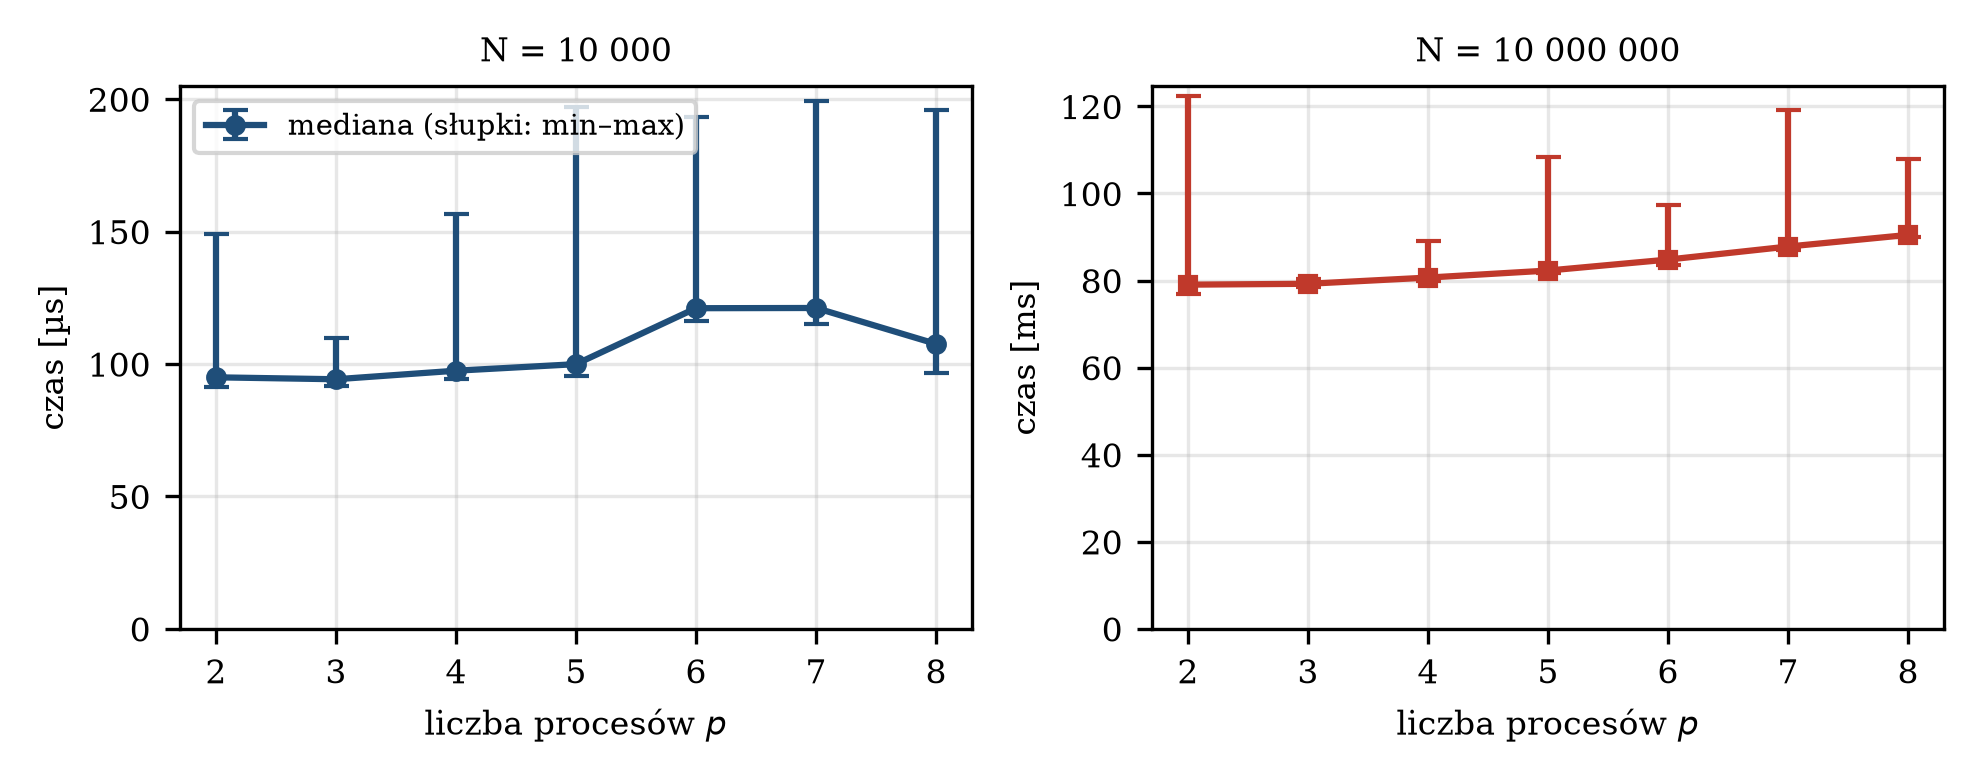
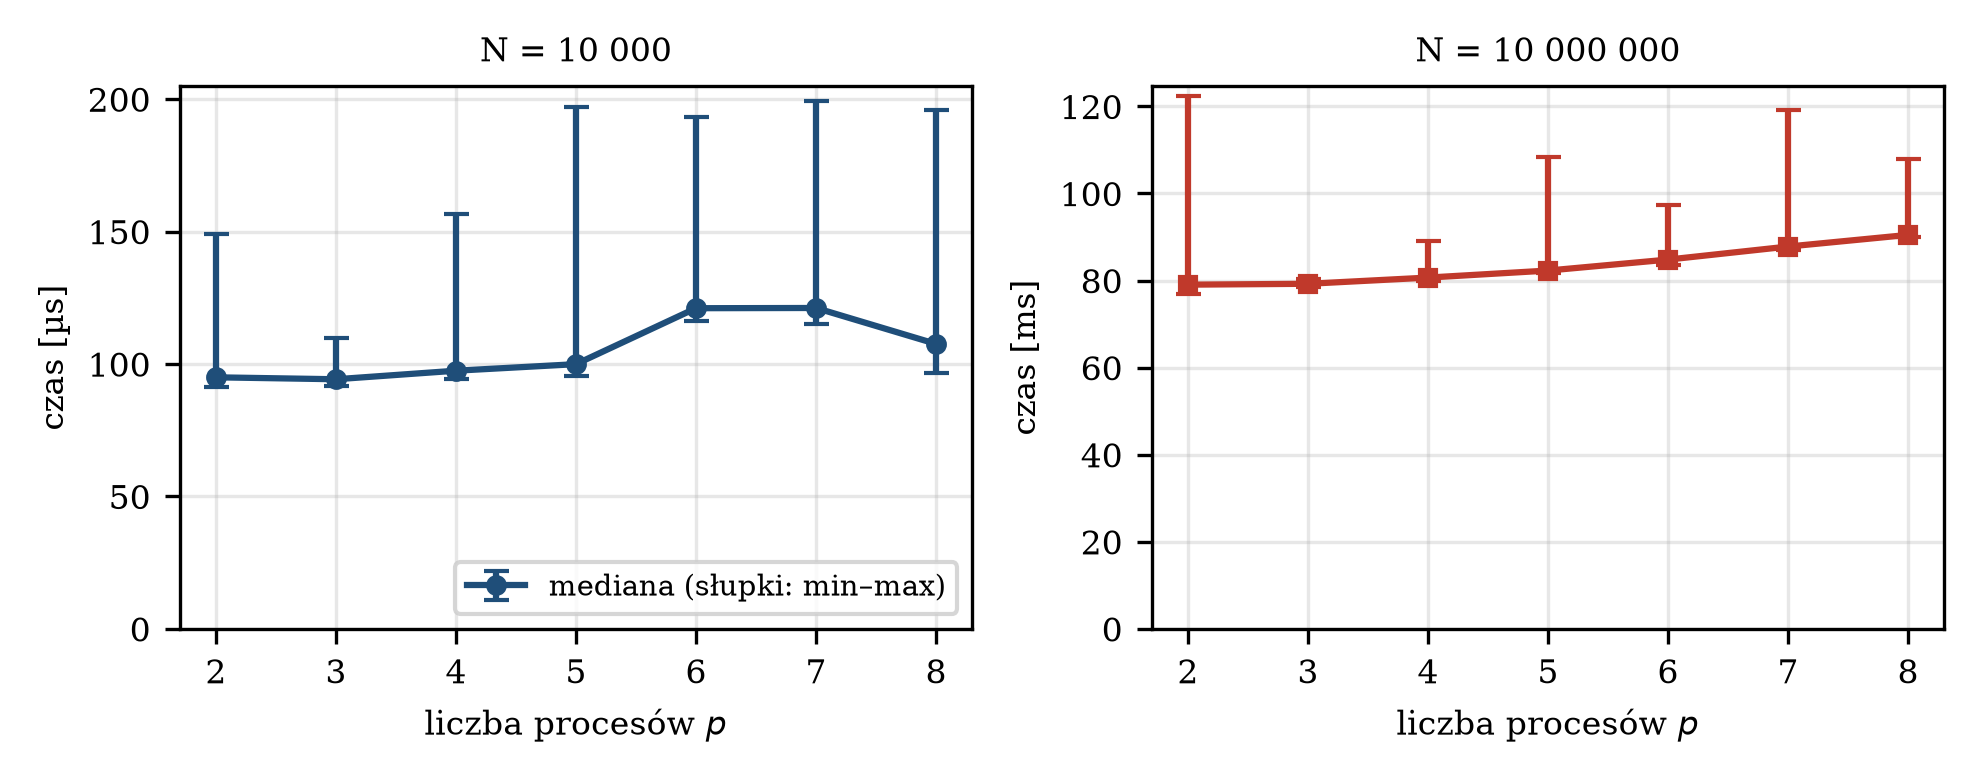
lab4: legenda wykresu nie zasłania słupków

Changed region(s): [[0.2157, 0.7077, 0.4929, 0.8], [0.0924, 0.1231, 0.3697, 0.2154]]

diff --git a/lab4/sprawozdanie/plot_results.py b/lab4/sprawozdanie/plot_results.py
@@ -40,7 +40,7 @@ for ax, data, scale, unit, title, mk, col in [
     ax.set_xlabel("liczba procesów $p$")
     ax.set_ylabel(f"czas [{unit}]")
     ax.set_title(title, fontsize=8)
-axs[0].legend(loc="upper left", fontsize=7)
+axs[0].legend(loc="lower right", fontsize=7)
 fig.tight_layout()
 fig.savefig("fig_czas.pdf")
 fig.savefig("fig_czas.png", dpi=300)
